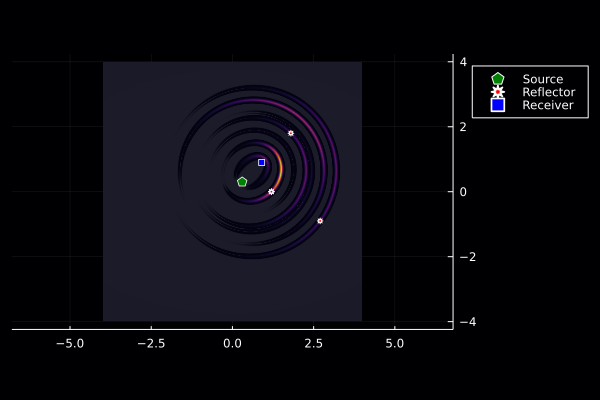
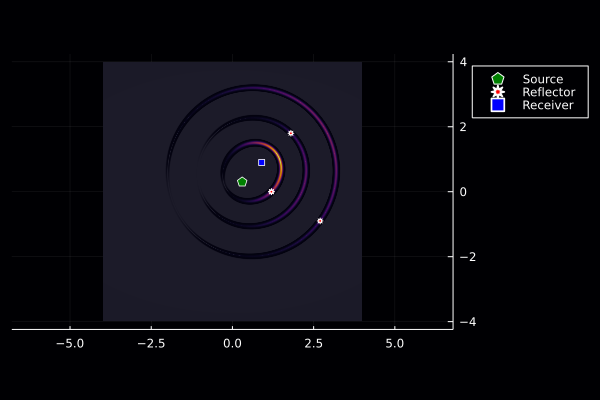
edit LTIdirectional scenarioD

diff --git a/docs/src/directionalLTI/dirLTIsource.md b/docs/src/directionalLTI/dirLTIsource.md
@@ -364,9 +364,10 @@ using LTVsystems
 using Plots
 𝐩ₛ =  [0.3, 0.3]
 𝐩ᵣ =  [0.9, 0.9]
+T = 25e-09
 p₁(t) = δn(t,2.0e-10)
-p₂(t) = δn(t+25e-10,2.0e-10)
-p₃(t) = δn(t+50e-10,2.0e-10)
+p₂(t) = δn(t-T,2.0e-10)
+p₃(t) = δn(t-2T,2.0e-10)
 α₁ = 0.7; 𝛏₁ = [1.2,0.0]
 α₂ = 0.6; 𝛏₂ = [1.8,1.8]
 α₃ = 0.5; 𝛏₃ = [2.7,-0.9]
@@ -377,13 +378,13 @@ G(θ) = 𝒩ᵤ(θ, μ=0.0, σ=π/3)
 q₁ = LTIsourceDTI(𝐩ₛ,p₁,𝐛₁,G)
 q₂ = LTIsourceDTI(𝐩ₛ,p₂,𝐛₂,G)
 q₃ = LTIsourceDTI(𝐩ₛ,p₃,𝐛₃,G)
-r₁ = pointReflector([𝛏₁,𝛏₂,𝛏₃],[α₁,α₂,α₃],[q₁])
-r₂ = pointReflector([𝛏₁,𝛏₂,𝛏₃],[α₁,α₂,α₃],[q₂])
-r₃ = pointReflector([𝛏₁,𝛏₂,𝛏₃],[α₁,α₂,α₃],[q₃])
-z₁ = LTIreceiverDTI(r₁,𝐩ᵣ,𝐛₁,G)
-z₂ = LTIreceiverDTI(r₂,𝐩ᵣ,𝐛₂,G)
-z₃ = LTIreceiverDTI(r₃,𝐩ᵣ,𝐛₃,G)
-t = collect(0.0:1.0e-10:20.5e-9)
+𝐑₁ = pointReflector([𝛏₁,𝛏₂,𝛏₃],[α₁,α₂,α₃],[q₁])
+𝐑₂ = pointReflector([𝛏₁,𝛏₂,𝛏₃],[α₁,α₂,α₃],[q₂])
+𝐑₃ = pointReflector([𝛏₁,𝛏₂,𝛏₃],[α₁,α₂,α₃],[q₃])
+z₁ = LTIreceiverDTI(𝐑₁,𝐩ᵣ,𝐛₁,G)
+z₂ = LTIreceiverDTI(𝐑₂,𝐩ᵣ,𝐛₂,G)
+z₃ = LTIreceiverDTI(𝐑₃,𝐩ᵣ,𝐛₃,G)
+t = collect(0.0:1.0e-10:70.5e-9)
 p1 = plot( t, z₁(t), xlab="time (sec)", ylab="z(t)", legend=:false)
 plot!(p1,t, z₂(t))
 plot!(p1,t, z₃(t))
@@ -392,9 +393,10 @@ plot!(p1,t, z₃(t))
 
 ### Inverse Modeling
 
-Given the scenario D assumptions, we obtained the received signals, $z_i(t)$. Now we can estimate the reflector function by considering the transmitted signals $p_i(t)=δ(t+t₀)$ as follows
+Given the scenario D assumptions, we obtained the received signals, $z_i(t)$. Now we can estimate the reflector function by considering the transmitted signals
+$p_i(t)=δ(t-td)$ where $td$ is the time delay as follows
 
-$f_i(\bm{\xi}) = \dfrac{z_i\left(\frac{\|\mathbf{p}_\mathrm{r}-
+$f_i(\bm{\xi}) = \dfrac{z_i\left(td+\frac{\|\mathbf{p}_\mathrm{r}-
 \bm{\xi}\|+\|\bm{\xi}-\mathbf{p}_\mathrm{s}\|}
 {\mathrm{c}} \right)\mathrm{D}_i\mathrm{s}\left(\bm{\xi};\,{\mathbf{p}_\mathrm{s},\mathbf{b}_\mathrm{s}}\right)
 \mathrm{D}_i\mathrm{r}\left(\bm{\xi};\,{\mathbf{p}_\mathrm{r},\mathbf{b}_\mathrm{r}}\right)}{\mathrm{A}\big(\frac{\|\bm{\xi}-\mathbf{p}_\mathrm{s}\|}{\mathrm{c}}\big)    
@@ -406,9 +408,10 @@ using LTVsystems
 using Plots
 𝐩ₛ =  [0.3, 0.3]
 𝐩ᵣ =  [0.9, 0.9]
+T = 25e-09
 p₁(t) = δn(t,2.0e-10)
-p₂(t) = δn(t+25e-10,2.0e-10)
-p₃(t) = δn(t+50e-10,2.0e-10)
+p₂(t) = δn(t+T,2.0e-10)
+p₃(t) = δn(t+2T,2.0e-10)
 α₁ = 0.7; 𝛏₁ = [1.2,0.0]
 α₂ = 0.6; 𝛏₂ = [1.8,1.8]
 α₃ = 0.5; 𝛏₃ = [2.7,-0.9]
@@ -419,12 +422,12 @@ G(θ) = 𝒩ᵤ(θ, μ=0.0, σ=π/3)
 q₁ = LTIsourceDTI(𝐩ₛ,p₁,𝐛₁,G)
 q₂ = LTIsourceDTI(𝐩ₛ,p₂,𝐛₂,G)
 q₃ = LTIsourceDTI(𝐩ₛ,p₃,𝐛₃,G)
-r₁ = pointReflector([𝛏₁,𝛏₂,𝛏₃],[α₁,α₂,α₃],[q₁])
-r₂ = pointReflector([𝛏₁,𝛏₂,𝛏₃],[α₁,α₂,α₃],[q₂])
-r₃ = pointReflector([𝛏₁,𝛏₂,𝛏₃],[α₁,α₂,α₃],[q₃])
-z₁ = LTIreceiverDTI(r₁,𝐩ᵣ,𝐛₁,G)
-z₂ = LTIreceiverDTI(r₂,𝐩ᵣ,𝐛₂,G)
-z₃ = LTIreceiverDTI(r₃,𝐩ᵣ,𝐛₃,G)
+𝐑₁ = pointReflector([𝛏₁,𝛏₂,𝛏₃],[α₁,α₂,α₃],[q₁])
+𝐑₂ = pointReflector([𝛏₁,𝛏₂,𝛏₃],[α₁,α₂,α₃],[q₂])
+𝐑₃ = pointReflector([𝛏₁,𝛏₂,𝛏₃],[α₁,α₂,α₃],[q₃])
+z₁ = LTIreceiverDTI(𝐑₁,𝐩ᵣ,𝐛₁,G)
+z₂ = LTIreceiverDTI(𝐑₂,𝐩ᵣ,𝐛₂,G)
+z₃ = LTIreceiverDTI(𝐑₃,𝐩ᵣ,𝐛₃,G)
 Dᵣ₁(ξ::Vector{Float64}) = G(angleBetween(𝐛₁, ξ.-𝐩ᵣ))
 Dₛ₁(ξ::Vector{Float64}) = G(angleBetween(𝐛₁, ξ.-𝐩ₛ))
 Dᵣ₂(ξ::Vector{Float64}) = G(angleBetween(𝐛₂, ξ.-𝐩ᵣ))
@@ -433,11 +436,11 @@ Dᵣ₃(ξ::Vector{Float64}) = G(angleBetween(𝐛₃, ξ.-𝐩ᵣ))
 Dₛ₃(ξ::Vector{Float64}) = G(angleBetween(𝐛₃, ξ.-𝐩ₛ))
 f₁(ξ::Vector{Float64}) = (z₁((norm(ξ-𝐩ₛ) .+ norm(𝐩ᵣ-ξ))./c).*Dₛ₁(ξ::Vector{Float64}).*Dᵣ₁(ξ::Vector{Float64}))/
                         (A(norm(ξ-𝐩ₛ)/c).*A(norm(𝐩ᵣ-ξ)/c))
-f₂(ξ::Vector{Float64}) = (z₂((norm(ξ-𝐩ₛ) .+ norm(𝐩ᵣ-ξ))./c).*Dₛ₂(ξ::Vector{Float64}).*Dᵣ₂(ξ::Vector{Float64}))/
+f₂(ξ::Vector{Float64}) = (z₂(T+(norm(ξ-𝐩ₛ) .+ norm(𝐩ᵣ-ξ))./c).*Dₛ₂(ξ::Vector{Float64}).*Dᵣ₂(ξ::Vector{Float64}))/
                         (A(norm(ξ-𝐩ₛ)/c).*A(norm(𝐩ᵣ-ξ)/c))
-f₃(ξ::Vector{Float64}) = (z₃((norm(ξ-𝐩ₛ) .+ norm(𝐩ᵣ-ξ))./c).*Dₛ₃(ξ::Vector{Float64}).*Dᵣ₃(ξ::Vector{Float64}))/
+f₃(ξ::Vector{Float64}) = (z₃(2T+(norm(ξ-𝐩ₛ) .+ norm(𝐩ᵣ-ξ))./c).*Dₛ₃(ξ::Vector{Float64}).*Dᵣ₃(ξ::Vector{Float64}))/
                         (A(norm(ξ-𝐩ₛ)/c).*A(norm(𝐩ᵣ-ξ)/c))
 f(ξ::Vector{Float64})=f₁(ξ::Vector{Float64}).+f₂(ξ::Vector{Float64}).+f₃(ξ::Vector{Float64})
-inverse2Dplot([q₁],r₁,[z₁],f)
+inverse2Dplot([q₁],𝐑₁,[z₁],f)
 ```
 ![](https://raw.githubusercontent.com/NMSU-ISA/LTVsystems/main/docs/src/assets/scenarioD_DirTIsimulation.png)

diff --git a/docs/src/stationaryDirectionSource/stationaryDirSource.md b/docs/src/stationaryDirectionSource/stationaryDirSource.md
@@ -400,8 +400,6 @@ G(θ) = 𝒩ᵤ(θ, μ=0.0, σ=π/3)
 q = STATsourceD(𝐩ₛ,p,𝐛,G)
 r = pointReflector([𝛏₁,𝛏₂,𝛏₃,𝛏₄],[α₁,α₂,α₃,α₄],[q])
 z = STATreceiverD(r,𝐩ᵣ,𝐛,G)
-Dᵣ(ξ::Vector{Float64}) = G(angleBetween(𝐛((norm(ξ-𝐩ₛ) .+ norm(𝐩ᵣ-ξ))./c), ξ.-𝐩ᵣ))
-Dₛ(ξ::Vector{Float64}) = G(angleBetween(𝐛((norm(ξ-𝐩ₛ) .+ norm(𝐩ᵣ-ξ))./c), ξ.-𝐩ₛ))
 x_range = collect(-4.0:0.01:4.0)
 y_range = collect(-4.0:0.01:4.0)
 xyGrid = [[x, y] for x in x_range, y in y_range]
@@ -418,8 +416,10 @@ end
     else tᵢ>3T
           td=3T
     end
+Dᵣ(ξ::Vector{Float64}) = G(angleBetween(𝐛(td+(norm(ξ-𝐩ₛ) .+ norm(𝐩ᵣ-ξ))./c), ξ.-𝐩ᵣ))
+Dₛ(ξ::Vector{Float64}) = G(angleBetween(𝐛(td+(norm(ξ-𝐩ₛ) .+ norm(𝐩ᵣ-ξ))./c), ξ.-𝐩ₛ))
 f(ξ::Vector{Float64}) = (z(td+(norm(ξ-𝐩ₛ) .+ norm(𝐩ᵣ-ξ))./c).*Dₛ(ξ::Vector{Float64}).*Dᵣ(ξ::Vector{Float64}))/
-                            (A(norm(ξ-𝐩ₛ)/c).*A(norm(𝐩ᵣ-ξ)/c))
+                                (A(norm(ξ-𝐩ₛ)/c).*A(norm(𝐩ᵣ-ξ)/c))
 inverse2Dplot([q],r,[z],f)
 ```
 ![](https://raw.githubusercontent.com/NMSU-ISA/LTVsystems/main/docs/src/assets/scenarioD_STATDsimulation.png)
